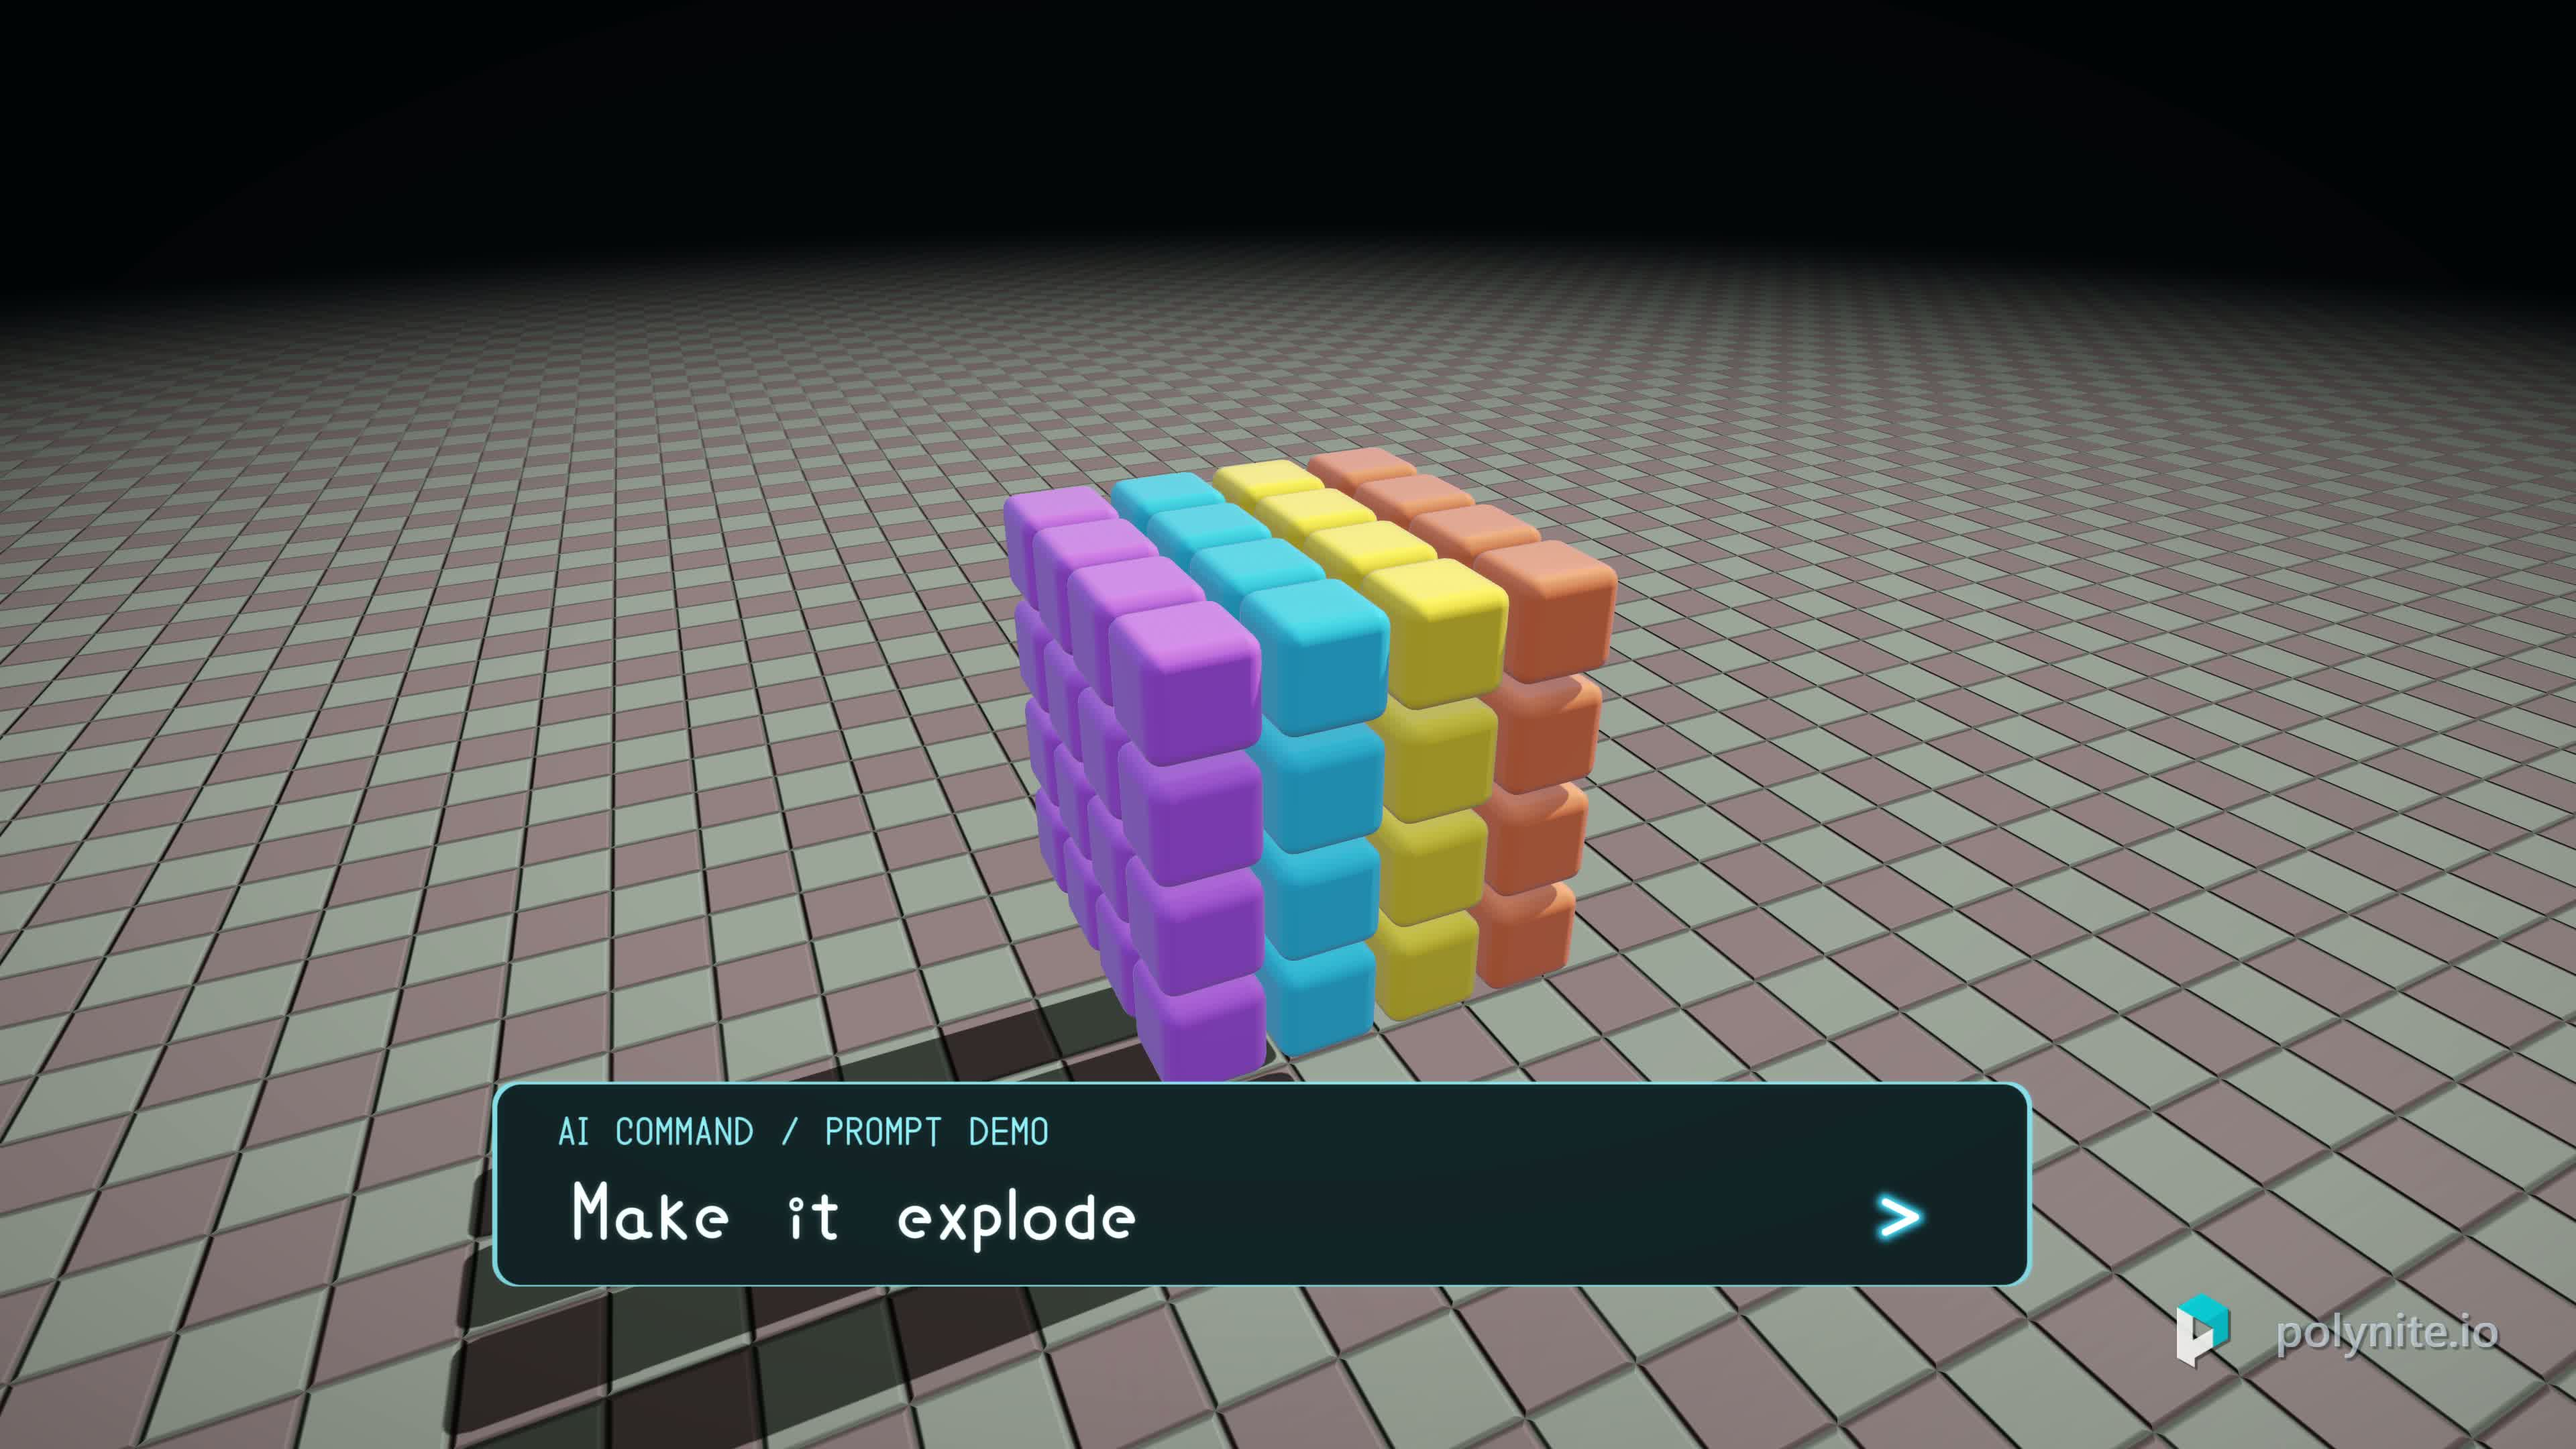
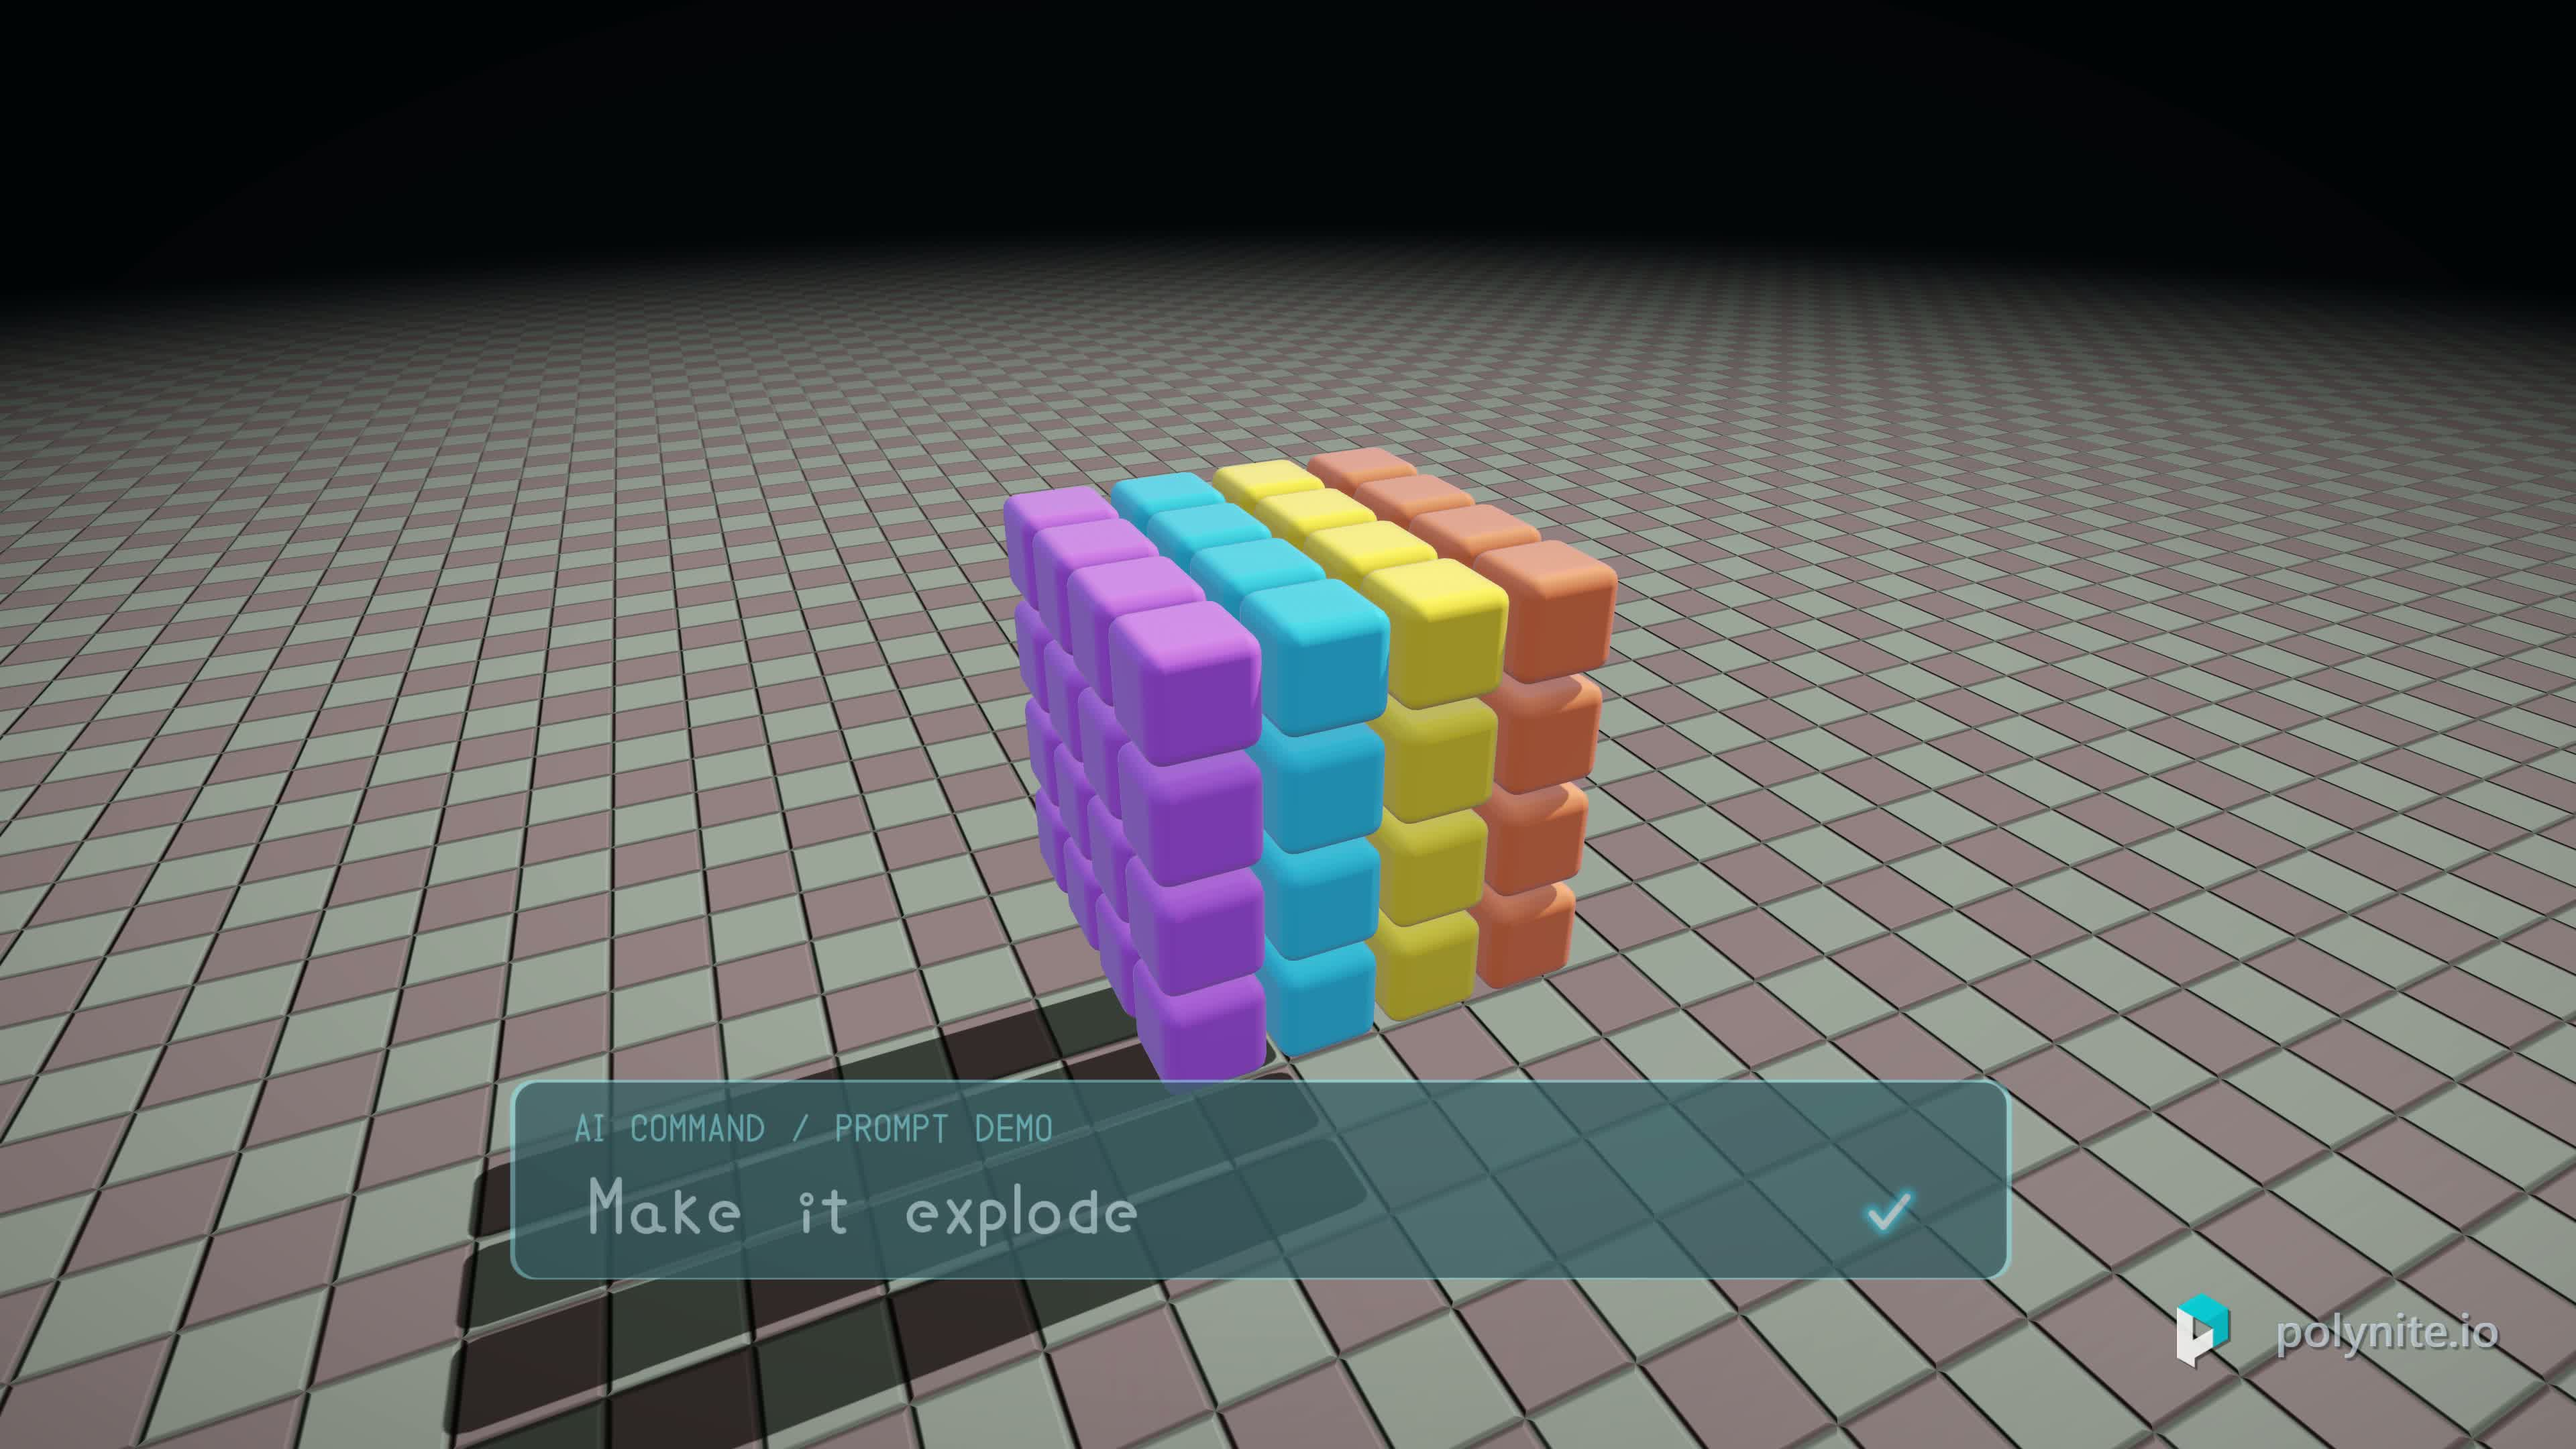
-- Refresh landscape short with current title and subtle audio cues

Changed region(s): [[0.1875, 0.7444, 0.8125, 0.8995]]

diff --git a/render_shorts.py b/render_shorts.py
@@ -50,9 +50,11 @@ try:
    for clip in doc['seq']:
     if clip.get('id')=='explode-title':clip.update(glow=.45,glow_radius=.055,glow_color=[0,0,0,1],anticipation_at=.45,anticipation_duration=.50,color_to=[1,.373125,.07125,1],thickness_before_burst=.023875)
   header=A.header_prompt and name=='short' and fmt=='portrait'
-  if header:
+  if name=='short':
    for clip in doc['seq']:
-    if clip.get('preset')=='command-input-v1':clip.update(box=[.075,.17,.64,.034],typing_volume=.002,send_volume=.003)
+    if clip.get('preset')=='command-input-v1':
+     clip.update(typing_volume=.002,send_volume=.003)
+     if header:clip['box']=[.075,.17,.64,.034]
    title=next(c for c in doc['seq'] if c.get('id')=='explode-title')
    doc['seq'].append({'op':'sound','id':'explode-entrance','at':title['at']+.08,'dur':.24,'lane':'audio','play':{'synth':'text_appear','volume':.003,'duration':.24,'fadein':.015,'envelop':8}})
   scene_name=fmt+('-header' if header else '')
@@ -64,10 +66,10 @@ try:
   film('load_document',document=doc,start_paused=True)
   film('set_branding',preset='polynite-ending-v3')
   resolved=film('document');resolved.pop('export',None)
-  if name=='short' and fmt=='portrait':
-   # Shift the raised portrait ending slightly left.
+  if name=='short':
+   # Shift only the raised portrait ending; landscape uses its centered preset.
    for clip in resolved['seq']:
-    if clip.get('asset')=='polynite-wordmark' and clip.get('branding_slot')=='outro':
+    if fmt=='portrait' and clip.get('asset')=='polynite-wordmark' and clip.get('branding_slot')=='outro':
      clip['box'][0]=.225
      clip['box'][1]=.13
    ending=next(c for c in resolved['seq'] if c.get('asset')=='polynite-wordmark' and c.get('branding_slot')=='outro')
